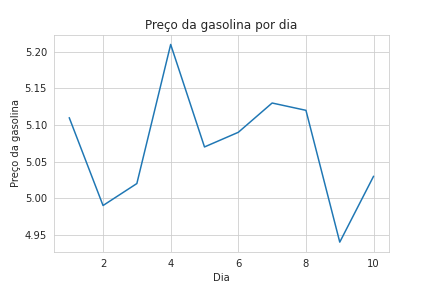
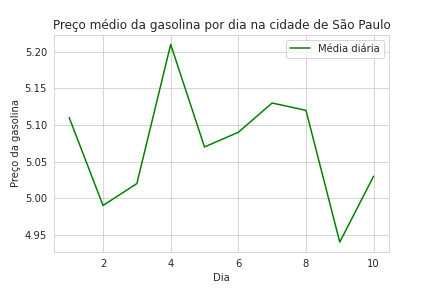
arquivos gasolina.png e gasolina.py alterados em develop

diff --git a/gasolina.py b/gasolina.py
@@ -1,7 +1,6 @@
 import pandas as pd
 import seaborn as sns
-import os
-from getpass import getpass 
+import matplotlib.pyplot as plt 
 
 %%writefile gasolina.csv
 dia,venda
@@ -22,6 +21,7 @@ data.head(11)
 preco_gasolina= data[['dia', 'venda']]
 
 with sns.axes_style('whitegrid'):
-  grafico= sns.lineplot(data=preco_gasolina, x='dia', y='venda', palette='pastel')
-  grafico.set(title='Preço da gasolina por dia', xlabel='Dia', ylabel='Preço da gasolina')
+  grafico= sns.lineplot(data=preco_gasolina, x='dia', y='venda', label= 'Média diária', palette='pastel', color= 'green')
+  grafico.set(title='Preço médio da gasolina por dia na cidade de São Paulo', xlabel='Dia', ylabel='Preço da gasolina')
   grafico.get_figure().savefig("gasolina.png")
+  grafico.figure.set_size_inches(w= 20/2.54, h=15/2.54)  
